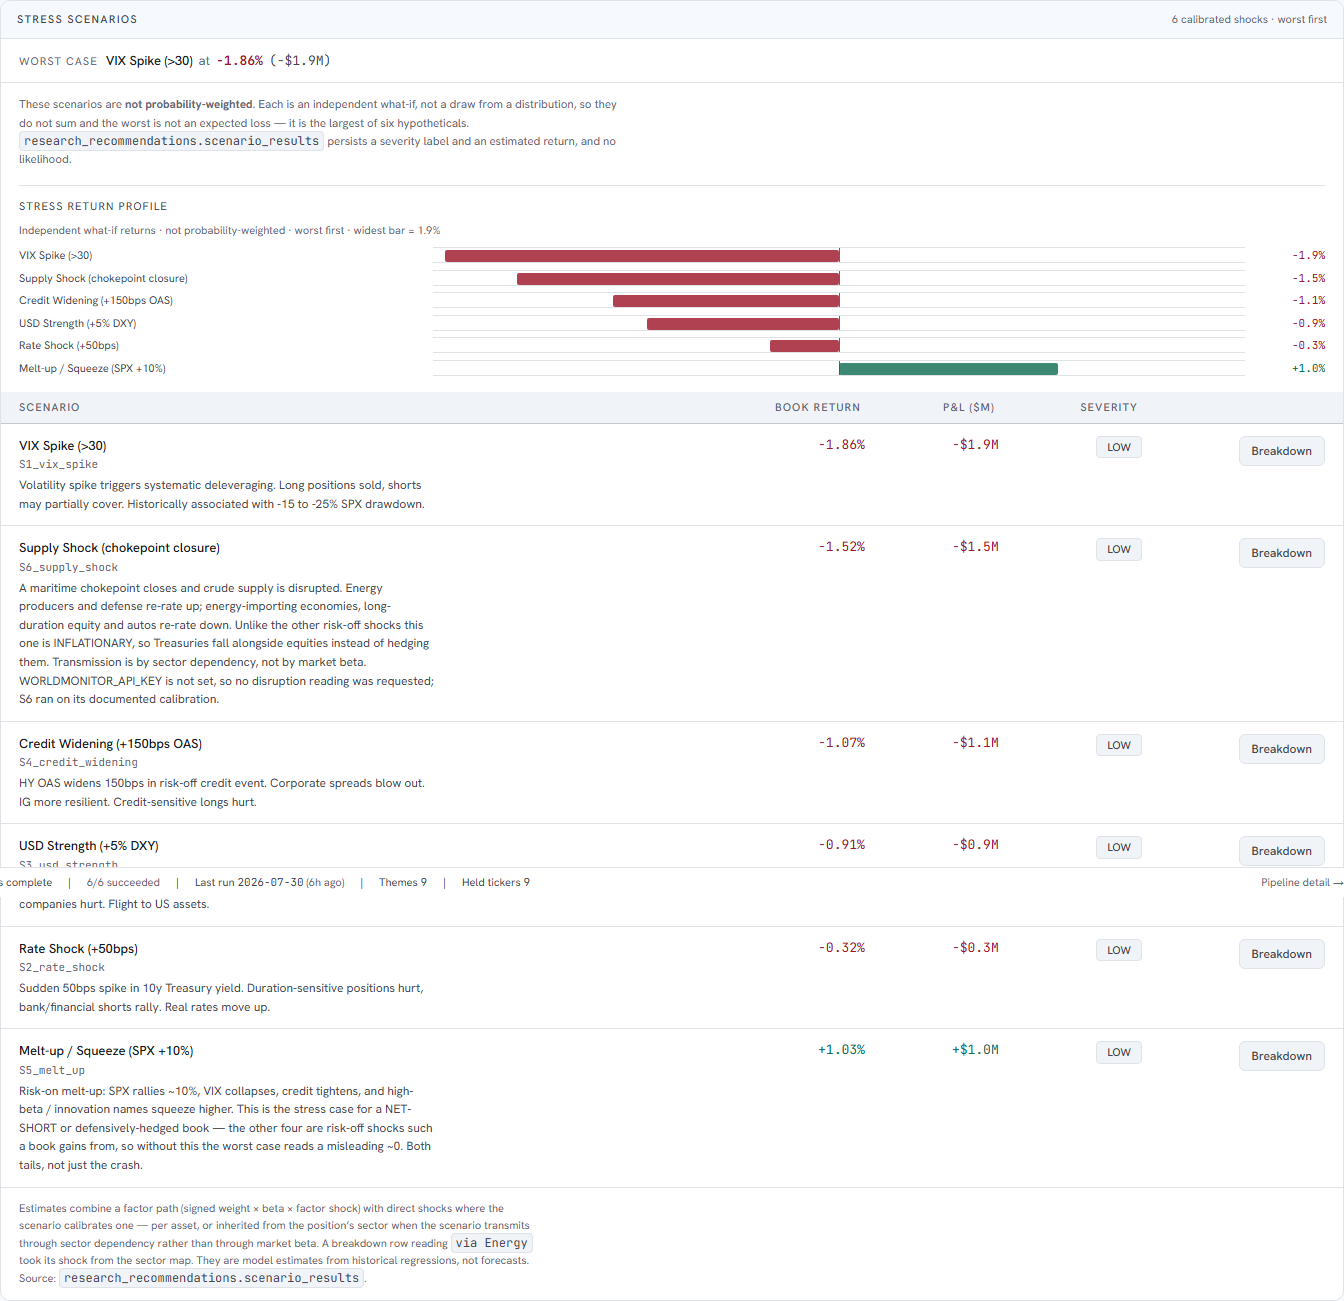
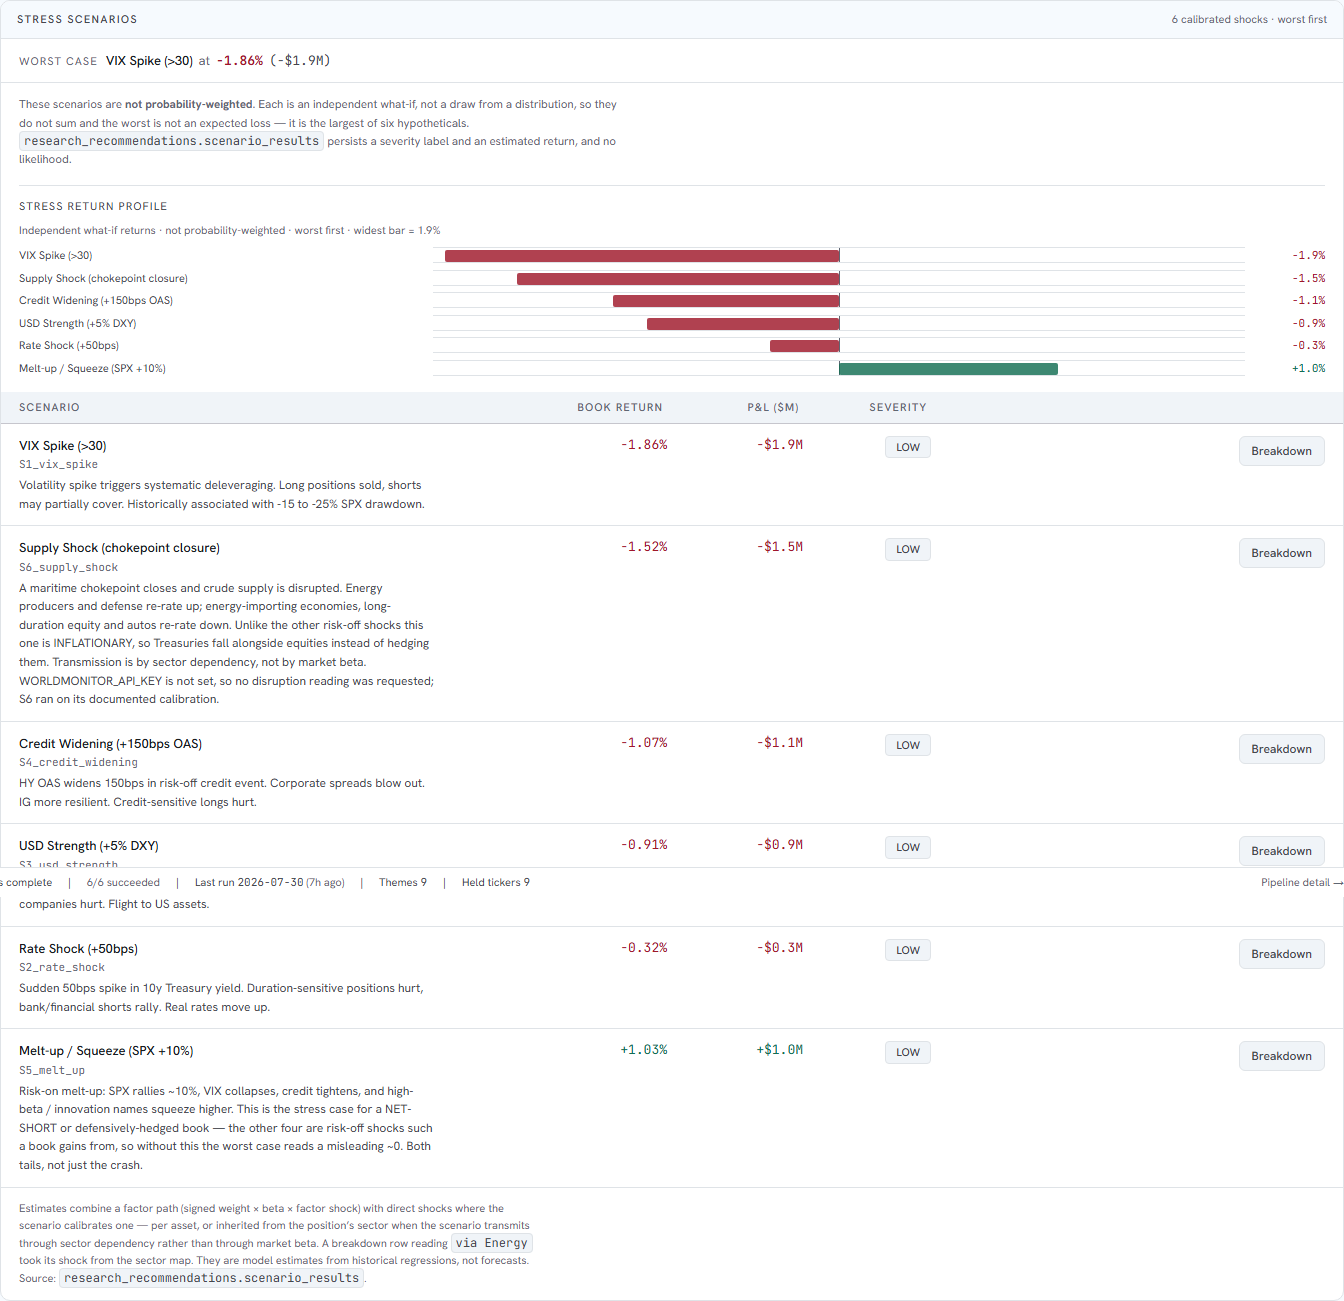
fix(risk): the stress table's figures sit beside the name they describe
Auto table layout hands surplus width to the column with the widest content.
Here that is Scenario, whose description is capped at 62ch for measure -- so
at 1440 the column took half the table and parked ~380px of nothing between
a scenario's name and its own return, with Book return / P&L / Severity
clustered against the right edge.

The value columns are pinned and the trailing action column takes the
remainder, which keeps a label and its figures in one scannable block and
moves the slack ahead of a right-aligned button, where a trailing action sits
anyway.

It needs table-fixed, and that took two measured attempts. Under auto layout
a w-full absorber on the last column wins outright: the browser resolves the
percentage first and starves every other column to min-content, including
ones with a declared width. Measured at 1440 -- Scenario asked for 34rem and
got 179px, the description wrapped to 143px, every row grew to eight lines.
Worse than the gap it was closing, and INDISTINGUISHABLE BY EYE from the
attempt that declared no width at all, which is why the column widths were
read out of the browser rather than looked at. Under table-fixed the declared
widths hold and the one column without a class takes the remainder, so the
absorber is the absence of a class.

Severity is 8rem, not the 7rem its content needs: a fixed column cannot grow,
the live book is all LOW, and the vocabulary is low / moderate / high /
severe -- sizing by eye today clips the first MODERATE run.
[…]

diff --git a/frontend/components/risk/StressScenarios.tsx b/frontend/components/risk/StressScenarios.tsx
@@ -59,6 +59,42 @@ function ShockChips({
   );
 }
 
+// Auto table layout hands surplus width to the column with the widest content,
+// which here is `Scenario` — and its content is capped at 62ch for measure, so
+// at 1440 that column took half the table and parked ~380px of nothing between
+// a scenario's name and its own return. The value columns are pinned to their
+// content and the trailing action column absorbs the surplus, which keeps a
+// label and the figures describing it in one scannable block and moves the slack
+// to the one place a row can carry it: ahead of a right-aligned button, where a
+// trailing action sits anyway.
+//
+// It needs FIXED layout to work, which is the part that took two measured
+// attempts. Under auto layout a `w-full` absorber on the trailing column wins
+// outright — the browser resolves the percentage first and starves every other
+// column to min-content, including ones with a specified width. Measured at
+// 1440: Scenario asked for 34rem and got 179px, the description wrapped to
+// ~143px, and every row grew to eight lines. Several times worse than the gap it
+// was meant to close, and identical to eye whether the width was declared or
+// not, which is why it was measured rather than looked at.
+//
+// Under `table-fixed` the declared widths are honoured and the ONE column
+// without a width takes the remainder — so the absorber is the absence of a
+// class, not `w-full`.
+//
+// All of it gated at `wide` (1424px). Below that there is no surplus to park —
+// the table is at its 720px floor and scrolling — and pinning would only raise
+// the floor, making a phone scroll further to reach the same numbers.
+const COLUMNS = [
+  { label: "Scenario", width: "wide:w-[34rem]" },
+  { label: "Book return", width: "wide:w-[8.5rem]" },
+  { label: "P&L ($M)", width: "wide:w-[8.5rem]" },
+  // 8rem, not 7: under `table-fixed` a column cannot grow for its content, and
+  // the vocabulary is low / moderate / high / severe — the live book is all LOW,
+  // so a column sized by eye today would clip the first MODERATE run.
+  { label: "Severity", width: "wide:w-[8rem]" },
+  { label: "", width: "" },
+];
+
 function ScenarioRow({
   scenario,
   index,
@@ -238,7 +274,7 @@ export function StressScenarios({
             <StressScenarioChart scenarios={rows} />
           </div>
           <div className="overflow-x-auto">
-            <table className="w-full border-collapse text-[13px] min-w-[720px]">
+            <table className="w-full border-collapse text-[13px] min-w-[720px] wide:table-fixed">
               <caption className="sr-only">
                 Estimated book return and P&amp;L under each stress scenario, sorted
                 worst first. Each row expands to the per-position contribution
@@ -246,15 +282,15 @@ export function StressScenarios({
               </caption>
               <thead>
                 <tr>
-                  {["Scenario", "Book return", "P&L ($M)", "Severity", ""].map((h, i) => (
+                  {COLUMNS.map((col, i) => (
                     <th
-                      key={h || `col-${i}`}
+                      key={col.label || `col-${i}`}
                       scope="col"
                       className={`px-[18px] py-[7px] text-[11px] uppercase tracking-[0.1em] text-text-tertiary font-medium border-b border-border-strong bg-bg-elevated ${
                         i === 0 ? "text-left" : "text-right"
-                      }`}
+                      } ${col.width}`}
                     >
-                      {h}
+                      {col.label}
                     </th>
                   ))}
                 </tr>
